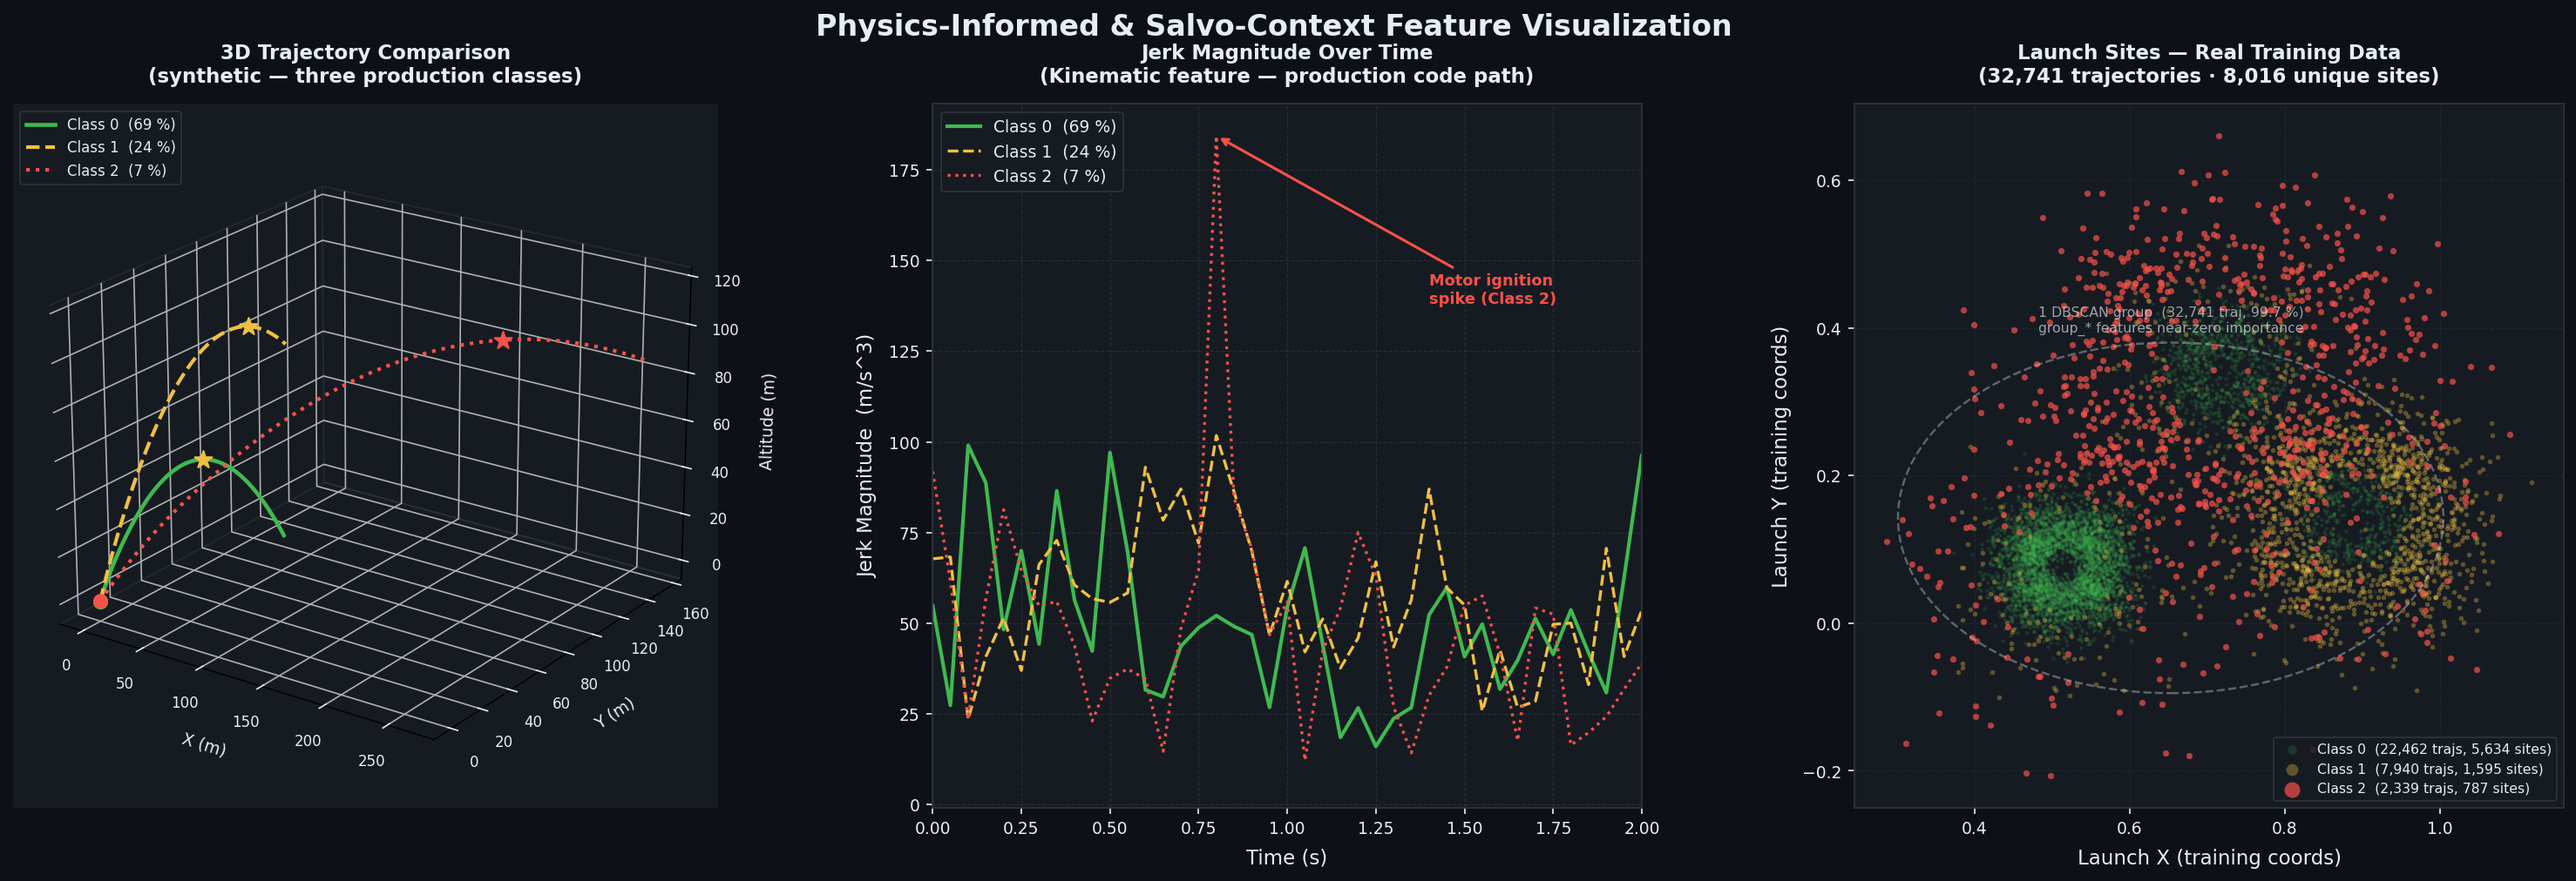
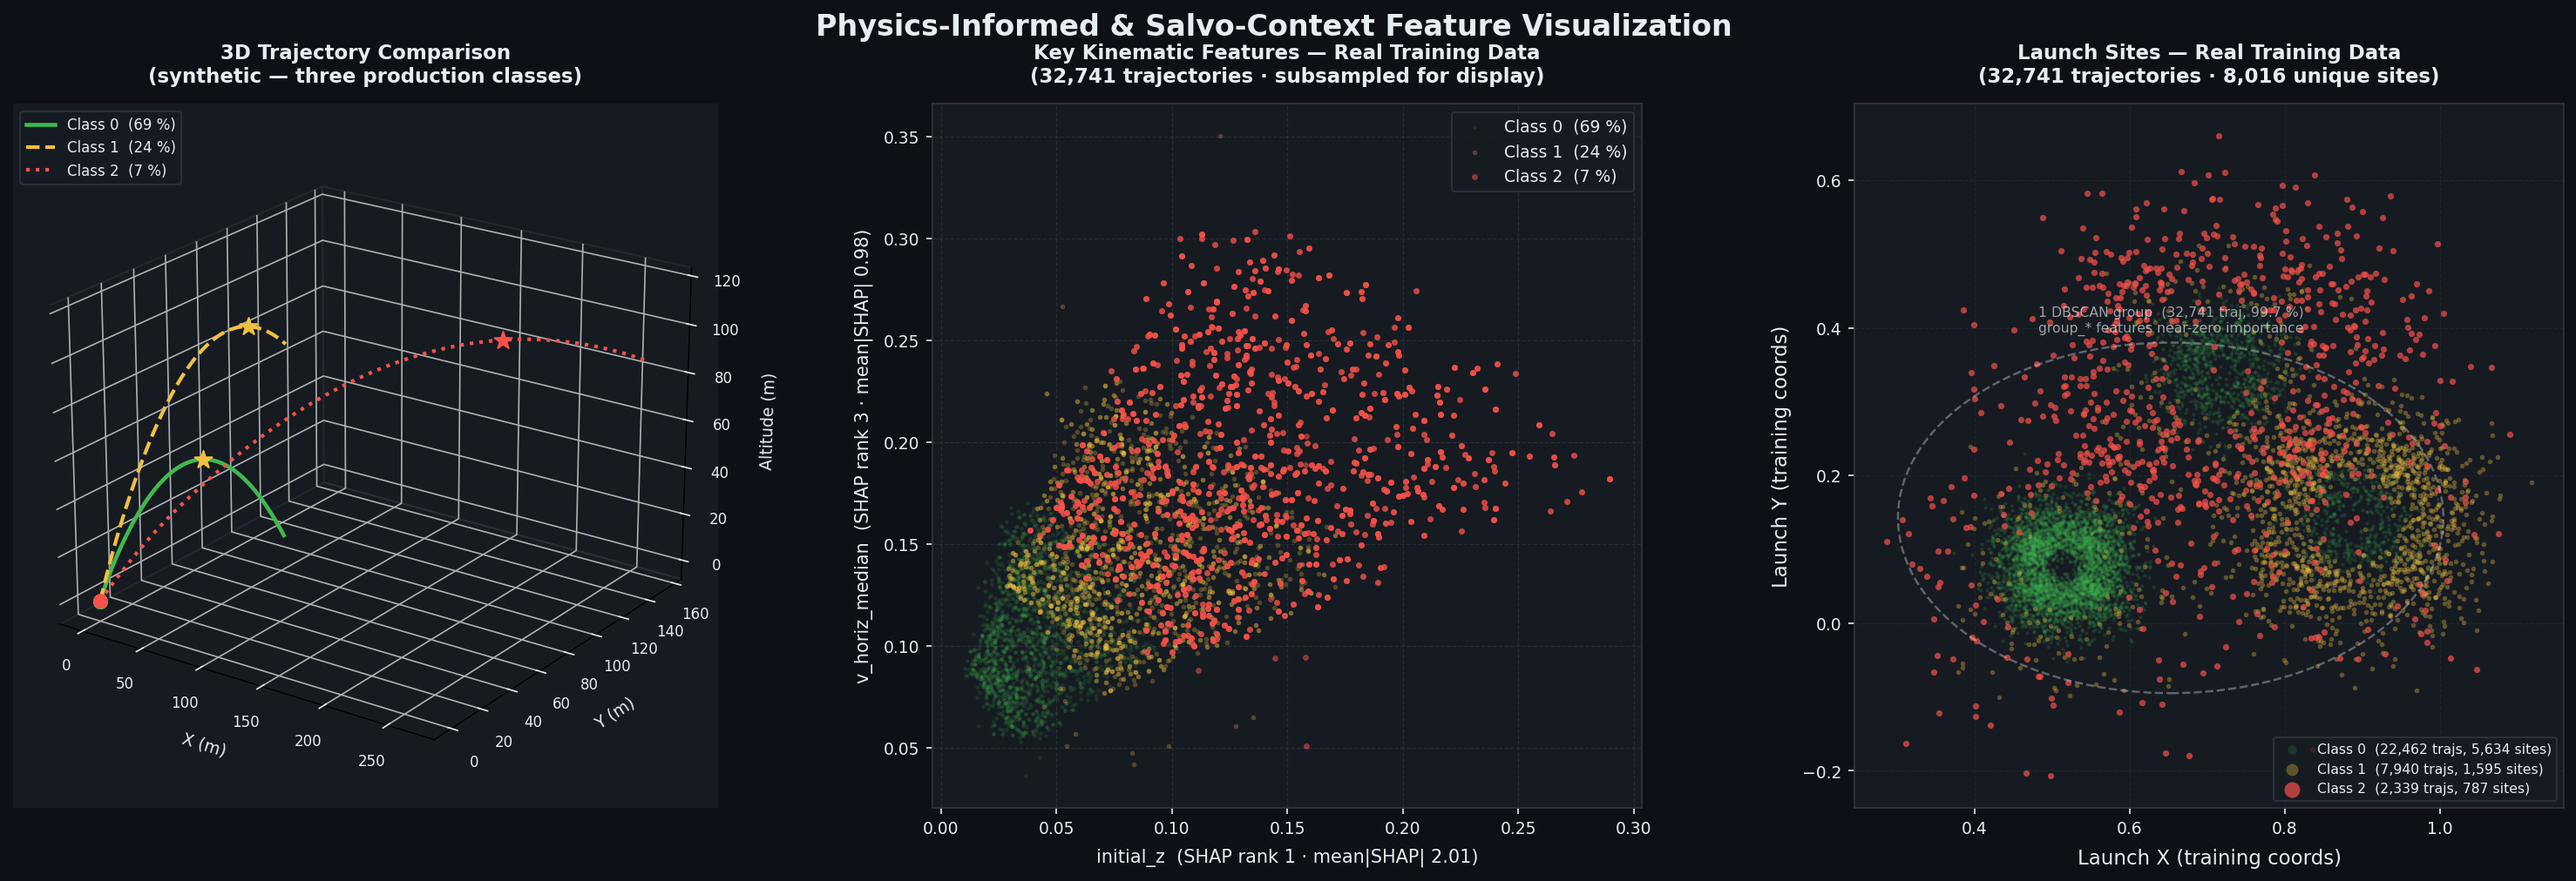
fix(visualize): replace jerk panel with real SHAP-confirmed feature scatter
Jerk is computed in features.py but discarded (_, _, _jerk = ...) and is
not in SELECTED_FEATURES — labelling it a production feature was wrong.

Centre panel now shows a scatter of initial_z (SHAP rank 1) vs
v_horiz_median (SHAP rank 3) from all 32,741 real training trajectories,
with per-class 2-sigma covariance ellipses.  Both features are in
SELECTED_FEATURES and directly used by the production model.

diff --git a/research/visualize.py b/research/visualize.py
@@ -6,19 +6,18 @@ Generates ``assets/demo.png`` containing three subplots:
               the production model: Class 0 (moderate arc, 69 %),
               Class 1 (long-range flat, 24 %), Class 2 (steep short-range, 7 %).
               Apogee marked per class.  Colours match the Streamlit demo.
-    - Centre: Jerk Magnitude time-series for all three classes, computed via
-              ``_compute_derivatives`` (production code path).  The magnitude
-              and timing of the thrust-ignition spike differ across classes and
-              are among the key kinematic discriminators.
+    - Centre: Real training-data scatter of the top two SHAP-confirmed
+              non-geographic kinematic features: ``initial_z`` (SHAP rank 1,
+              mean |SHAP| 2.01) and ``v_horiz_median`` (SHAP rank 3, 0.98).
+              Per-class 2-sigma covariance ellipses show the class-conditional
+              distributions.  Both features are in ``SELECTED_FEATURES`` and
+              are used by the production model.
     - Right:  Real launch-site scatter from the training cache — every unique
               (launch_x, launch_y) coordinate, coloured by class.  Production
               DBSCAN (eps=0.25, min_samples=3) finds 1 dominant group containing
               99.7 % of trajectories, explaining why the rebel-group features
               have near-zero importance in the trained model.  Requires
               ``cache/cache_train_features.parquet`` (run ``make download-all``).
-
-Uses ``_compute_derivatives`` from ``rocket_classifier/features.py`` so that
-the kinematic panel reflects the same physics code path used in production.
 """
 
 import logging
@@ -33,8 +32,6 @@ import matplotlib.patches as mpatches
 import matplotlib.pyplot as plt
 import numpy as np
 import pandas as pd
-
-from rocket_classifier.features import _compute_derivatives
 
 logger = logging.getLogger(__name__)
 
@@ -90,7 +87,7 @@ def _ballistic(
 
     Returns:
         pos: (n, 3) position array in metres.
-        dt_arr: (n-1,) constant dt array for ``_compute_derivatives``.
+        dt_arr: (n-1,) constant dt array (uniform, for external use if needed).
     """
     g = 9.81
     theta = np.radians(theta_deg)
@@ -144,8 +141,7 @@ def generate_class2(n: int = _N, dt: float = _DT) -> tuple[np.ndarray, np.ndarra
     """Class 2 (7 %): Fastest, longest range — the rare high-capability rocket.
 
     Real data: initial_speed 1.77x, x_range 2.96x, apogee_relative 3.14x,
-    acc_mag_max 1.61x (stronger motor).  Flatter angle maximises range;
-    strong thrust produces the largest ignition spike in the jerk panel.
+    acc_mag_max 1.61x (stronger motor).  Flatter angle maximises range.
     All t_land values exceed 6 s (no ground-clamp artifact).
     """
     return _ballistic(
@@ -153,36 +149,31 @@ def generate_class2(n: int = _N, dt: float = _DT) -> tuple[np.ndarray, np.ndarra
     )
 
 
-def compute_jerk_magnitude(pos: np.ndarray, dt_arr: np.ndarray) -> np.ndarray:
-    """Compute per-timestep jerk magnitude using the production derivative pipeline."""
-    _, _, jerk = _compute_derivatives(pos, dt_arr)
-    if jerk.shape[0] == 0:
-        return np.array([])
-    return np.linalg.norm(jerk, axis=1)
-
-
 # ---------------------------------------------------------------------------
-# Real launch-site data from training cache
+# Real training-data loader
 # ---------------------------------------------------------------------------
 
 _CACHE_PATH = Path(__file__).parent.parent / "cache" / "cache_train_features.parquet"
 
 
 def load_real_launch_data() -> pd.DataFrame | None:
-    """Load launch positions and class labels from the training feature cache.
+    """Load training features and class labels from the training feature cache.
 
     Returns:
-        DataFrame with columns [launch_x, launch_y, label], or None if the
-        cache parquet is not present (run ``make download-all`` to fetch it).
+        DataFrame with columns [launch_x, launch_y, initial_z, v_horiz_median, label],
+        or None if the cache parquet is not present (run ``make download-all``).
     """
     if not _CACHE_PATH.exists():
         logger.warning(
-            "Training cache not found at %s — right panel will be blank. "
+            "Training cache not found at %s — centre and right panels will be blank. "
             "Run 'make download-all' to fetch it.",
             _CACHE_PATH,
         )
         return None
-    return pd.read_parquet(_CACHE_PATH, columns=["launch_x", "launch_y", "label"])
+    return pd.read_parquet(
+        _CACHE_PATH,
+        columns=["launch_x", "launch_y", "initial_z", "v_horiz_median", "label"],
+    )
 
 
 # ---------------------------------------------------------------------------
@@ -192,16 +183,9 @@ def load_real_launch_data() -> pd.DataFrame | None:
 
 def make_demo_plot(output_path: Path) -> None:
     """Render and save the three-panel physics + salvo feature visualization."""
-    pos0, dt0 = generate_class0()
-    pos1, dt1 = generate_class1()
-    pos2, dt2 = generate_class2()
-
-    jerk0 = compute_jerk_magnitude(pos0, dt0)
-    jerk1 = compute_jerk_magnitude(pos1, dt1)
-    jerk2 = compute_jerk_magnitude(pos2, dt2)
-
-    dt = _DT
-    t_jerk = np.arange(len(jerk0)) * dt  # all classes have same n, so same length
+    pos0, _ = generate_class0()
+    pos1, _ = generate_class1()
+    pos2, _ = generate_class2()
 
     apogee = {
         0: int(np.argmax(pos0[:, 2])),
@@ -209,7 +193,6 @@ def make_demo_plot(output_path: Path) -> None:
         2: int(np.argmax(pos2[:, 2])),
     }
     positions = {0: pos0, 1: pos1, 2: pos2}
-    jerks = {0: jerk0, 1: jerk1, 2: jerk2}
 
     launch_df = load_real_launch_data()
 
@@ -285,53 +268,88 @@ def make_demo_plot(output_path: Path) -> None:
     )
     ax3d.view_init(elev=22, azim=-55)
 
-    # ── Centre: Jerk magnitude ─────────────────────────────────────────────────
+    # ── Centre: Real feature distributions (SHAP top kinematic features) ─────────
     ax2d.set_facecolor(PANEL_BG)
     ax2d.tick_params(colors=TEXT_COLOR, labelsize=9)
     for spine in ax2d.spines.values():
         spine.set_edgecolor(GRID_COLOR)
     ax2d.grid(True, color=GRID_COLOR, linewidth=0.6, linestyle="--", alpha=0.7)
 
-    for cls in (0, 1, 2):
-        jerk = jerks[cls]
-        t_j = np.arange(len(jerk)) * dt
-        ax2d.plot(
-            t_j,
-            jerk,
-            color=CLASS_COLOR[cls],
-            linewidth=2.0 if cls == 0 else 1.6,
-            linestyle=linestyles[cls],
-            label=CLASS_LABEL[cls],
+    if launch_df is not None:
+        # Subsample for visual clarity: cap Class 0 at 2000 so it doesn't drown
+        # Classes 1 and 2; show all of Class 2 (only 2,339 trajectories).
+        rng_sub = np.random.default_rng(seed=0)
+        sub_n = {0: 2000, 1: 2000, 2: len(launch_df[launch_df["label"] == 2])}
+        point_alphas = {0: 0.15, 1: 0.28, 2: 0.55}
+        point_sizes = {0: 5, 1: 7, 2: 11}
+
+        for cls in (0, 1, 2):
+            cls_df = launch_df[launch_df["label"] == cls]
+            n_draw = min(sub_n[cls], len(cls_df))
+            idx = rng_sub.choice(len(cls_df), size=n_draw, replace=False)
+            sub = cls_df.iloc[idx]
+
+            ax2d.scatter(
+                sub["initial_z"],
+                sub["v_horiz_median"],
+                c=CLASS_COLOR[cls],
+                s=point_sizes[cls],
+                alpha=point_alphas[cls],
+                linewidths=0,
+                zorder=2,
+                label=CLASS_LABEL[cls],
+            )
+
+            # 2-sigma covariance ellipse — uses full class data, not just the subsample
+            full = launch_df[launch_df["label"] == cls]
+            mu = np.array([full["initial_z"].mean(), full["v_horiz_median"].mean()])
+            cov = np.cov(full["initial_z"].values, full["v_horiz_median"].values)
+            eig_vals, eig_vecs = np.linalg.eigh(cov)
+            angle = np.degrees(np.arctan2(eig_vecs[1, -1], eig_vecs[0, -1]))
+            w, h = 2 * 2 * np.sqrt(np.abs(eig_vals))
+            ellipse = mpatches.Ellipse(
+                mu,
+                width=w,
+                height=h,
+                angle=angle,
+                fill=False,
+                edgecolor=CLASS_COLOR[cls],
+                linewidth=1.8,
+                linestyle="--",
+                alpha=0.85,
+                zorder=3,
+            )
+            ax2d.add_patch(ellipse)
+
+        center_title_suffix = f"({len(launch_df):,} trajectories · subsampled for display)"
+        ax2d.legend(fontsize=9, facecolor=PANEL_BG, edgecolor=GRID_COLOR, labelcolor=TEXT_COLOR)
+    else:
+        ax2d.text(
+            0.5,
+            0.5,
+            "Cache not found.\nRun 'make download-all'\nto see real features.",
+            transform=ax2d.transAxes,
+            ha="center",
+            va="center",
+            color=TEXT_COLOR,
+            fontsize=11,
         )
+        center_title_suffix = "(cache not found)"
 
-    # Annotate the Class 2 ignition spike — largest because Class 2 has the
-    # strongest motor (thrust_accel 160 vs 80/55 for Class 0/1), matching the
-    # real-data acc_mag_max ratio of 1.61x.
-    peak_idx2 = int(np.argmax(jerk2))
-    ax2d.annotate(
-        "Motor ignition\nspike (Class 2)",
-        xy=(t_jerk[peak_idx2], jerk2[peak_idx2]),
-        xytext=(t_jerk[peak_idx2] + 0.6, jerk2[peak_idx2] * 0.75),
-        color=RED,
-        fontsize=8.5,
-        fontweight="bold",
-        arrowprops={"arrowstyle": "->", "color": RED, "lw": 1.5},
+    ax2d.set_xlabel(
+        "initial_z  (SHAP rank 1 · mean|SHAP| 2.01)", color=TEXT_COLOR, fontsize=10, labelpad=6
     )
-
-    # Focus on the first 2 s to keep the ignition spikes front-and-centre;
-    # jerk falls to near-zero after all thrust phases have ended.
-    ax2d.set_xlim(0, 2.0)
-    ax2d.set_xlabel("Time (s)", color=TEXT_COLOR, fontsize=11, labelpad=6)
-    ax2d.set_ylabel("Jerk Magnitude  (m/s^3)", color=TEXT_COLOR, fontsize=11, labelpad=6)
+    ax2d.set_ylabel(
+        "v_horiz_median  (SHAP rank 3 · mean|SHAP| 0.98)", color=TEXT_COLOR, fontsize=10, labelpad=6
+    )
     ax2d.set_title(
-        "Jerk Magnitude Over Time\n(Kinematic feature — production code path)",
+        f"Key Kinematic Features — Real Training Data\n{center_title_suffix}",
         color=TEXT_COLOR,
         fontsize=11,
         fontweight="bold",
         pad=12,
     )
     ax2d.tick_params(axis="both", colors=TEXT_COLOR)
-    ax2d.legend(fontsize=9, facecolor=PANEL_BG, edgecolor=GRID_COLOR, labelcolor=TEXT_COLOR)
 
     # ── Right: Real launch-site scatter ───────────────────────────────────────
     ax_s.set_facecolor(PANEL_BG)
